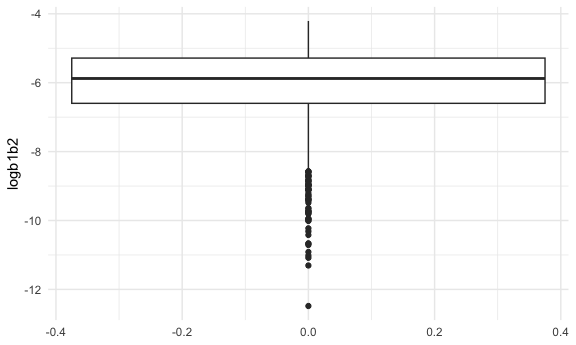
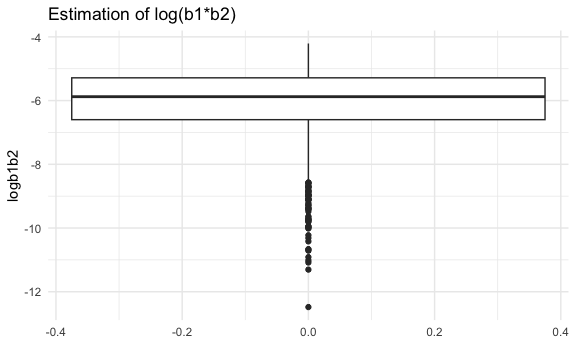
fixed plot for q2 and computed CI

diff --git a/p8105_hw6_sw3879.md b/p8105_hw6_sw3879.md
@@ -172,13 +172,44 @@ results_rsq = boot_results |>
 Plotting estimates
 
 ``` r
-results_logb1b2 |> ggplot(aes(y = logb1b2)) + geom_boxplot()
+results_logb1b2 |> ggplot(aes(y = logb1b2)) + geom_boxplot() +
+  labs(title = "Estimation of log(b1*b2)")
 ```
 
 <img src="p8105_hw6_sw3879_files/figure-gfm/unnamed-chunk-12-1.png" width="90%" />
 
 ``` r
-results_rsq |> ggplot(aes(y = r.squared)) + geom_boxplot()
+results_rsq |> ggplot(aes(y = r.squared)) + geom_boxplot() + 
+  labs(title = "Esimation of R squared")
 ```
 
 <img src="p8105_hw6_sw3879_files/figure-gfm/unnamed-chunk-12-2.png" width="90%" />
+
+The 95% CI for log(b1\*b2)
+
+``` r
+results_logb1b2 |> summarise(
+  upperCI = quantile(logb1b2, 0.975, na.rm = TRUE),
+  lowerCI = quantile(logb1b2, 0.025, na.rm = TRUE)) |> 
+  knitr::kable()
+```
+
+|   upperCI |   lowerCI |
+|----------:|----------:|
+| -4.601673 | -8.981559 |
+
+The 95% CI for r-squared
+
+``` r
+results_rsq |> summarise(
+  upperCI = quantile(r.squared, 0.975, na.rm = TRUE),
+  lowerCI = quantile(r.squared, 0.025, na.rm = TRUE)) |> 
+  knitr::kable()
+```
+
+|   upperCI |   lowerCI |
+|----------:|----------:|
+| 0.9406812 | 0.8885495 |
+
+COMMENT Significant amount of NaN values in log(b1\*b2) due to negative
+precipitation values.
